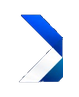
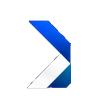
"

Changed region(s): [[0.2278, 0.1237, 0.8101, 0.866]]

diff --git a/frontend/src/components/Sidebar.jsx b/frontend/src/components/Sidebar.jsx
@@ -96,19 +96,8 @@ export default function Sidebar() {
         <i className={isCollapsed ? "ri-arrow-right-s-line" : "ri-arrow-left-s-line"} aria-hidden="true" />
       </button>
 
-      <div className="sidebar-brand-panel">
-        {isCollapsed ? (
-          <div className="sidebar-brand-icon-wrap">
-            <img
-              src={integraxxXMark}
-              alt="Integraxx"
-              className="sidebar-brand-logo sidebar-brand-logo--icon"
-              width={79}
-              height={97}
-              decoding="async"
-            />
-          </div>
-        ) : (
+      {!isCollapsed ? (
+        <div className="sidebar-brand-panel">
           <img
             src={integraxxSidebarLogo}
             alt="Integraxx"
@@ -117,10 +106,27 @@ export default function Sidebar() {
             height={171}
             decoding="async"
           />
-        )}
-      </div>
+        </div>
+      ) : null}
 
       <nav className="sidebar-nav" aria-label="Menu principal">
+        {isCollapsed ? (
+          <NavLink
+            to={links[0]?.to || "/dashboard"}
+            className="sidebar-collapsed-logo-link"
+            title="Integraxx"
+            aria-label="Integraxx - inicio"
+          >
+            <img
+              src={integraxxXMark}
+              alt=""
+              className="sidebar-collapsed-logo-img"
+              width={95}
+              height={109}
+              decoding="async"
+            />
+          </NavLink>
+        ) : null}
         <ul className="nav-list">
           {links.map((link) => (
             <li key={link.to}>
@@ -140,45 +146,27 @@ export default function Sidebar() {
       </nav>
 
       <div className="sidebar-profile-card">
-        {isCollapsed ? (
-          <>
-            <div className="sidebar-profile-main">
-              <div className="sidebar-profile-avatar" aria-hidden="true">
-                {getInitials(user?.name || user?.email || "Integraxx")}
-              </div>
-            </div>
-            <button
-              type="button"
-              className="sidebar-logout-button"
-              onClick={logout}
-              aria-label="Sair"
-              title="Sair"
-            >
-              <i className="ri-logout-box-r-line" aria-hidden="true" />
-            </button>
-          </>
-        ) : (
-          <div className="sidebar-profile-row">
-            <button
-              type="button"
-              className="sidebar-logout-button sidebar-logout-button--leading"
-              onClick={logout}
-              aria-label="Sair"
-              title="Sair"
-            >
-              <i className="ri-logout-box-r-line" aria-hidden="true" />
-            </button>
-            <div className="sidebar-profile-main">
-              <div className="sidebar-profile-avatar" aria-hidden="true">
-                {getInitials(user?.name || user?.email || "Integraxx")}
-              </div>
-              <div className="sidebar-profile-copy">
-                <strong>{user?.name || user?.email || "Administrador"}</strong>
-                <small>{getRoleLabel(user?.role)}</small>
-              </div>
-            </div>
+        <div className="sidebar-profile-main">
+          <div className="sidebar-profile-avatar" aria-hidden="true">
+            {getInitials(user?.name || user?.email || "Integraxx")}
           </div>
-        )}
+          {!isCollapsed ? (
+            <div className="sidebar-profile-copy">
+              <strong>{user?.name || user?.email || "Administrador"}</strong>
+              <small>{getRoleLabel(user?.role)}</small>
+            </div>
+          ) : null}
+        </div>
+        <button
+          type="button"
+          className="sidebar-logout-button"
+          onClick={logout}
+          aria-label="Sair"
+          title="Sair"
+        >
+          <i className="ri-logout-box-r-line" aria-hidden="true" />
+          {!isCollapsed ? <span>Sair</span> : null}
+        </button>
       </div>
     </aside>
   );

diff --git a/frontend/src/index.css b/frontend/src/index.css
@@ -4308,52 +4308,12 @@ body.login-theme {
   border-top: 1px solid rgba(46, 88, 130, 0.22);
 }
 
-.sidebar-profile-row {
-  display: flex;
-  align-items: center;
-  gap: 12px;
-  width: 100%;
-  min-width: 0;
-}
-
 .sidebar-profile-main {
   display: grid;
   grid-template-columns: auto 1fr;
   align-items: center;
   gap: 12px;
   min-width: 0;
-  flex: 1;
-}
-
-.sidebar-logout-button--leading {
-  flex-shrink: 0;
-  display: inline-flex;
-  align-items: center;
-  justify-content: center;
-  width: 40px;
-  height: 40px;
-  min-width: 40px;
-  padding: 0;
-  border: 1px solid rgba(46, 88, 130, 0.35);
-  border-radius: 12px;
-  background: rgba(8, 24, 46, 0.55);
-  color: #8eb8d8;
-  cursor: pointer;
-  transition:
-    color 0.2s ease,
-    border-color 0.2s ease,
-    background 0.2s ease;
-}
-
-.sidebar-logout-button--leading:hover {
-  color: #d8ecff;
-  border-color: rgba(13, 216, 255, 0.45);
-  background: rgba(13, 216, 255, 0.12);
-}
-
-.sidebar-logout-button--leading i {
-  font-size: 20px;
-  line-height: 1;
 }
 
 .sidebar-profile-avatar {
@@ -4489,37 +4449,46 @@ body.login-theme {
   font-weight: 700;
 }
 
-.sidebar--integraxx.is-collapsed {
-  width: 92px;
-  min-width: 92px;
-  overflow-x: visible;
-}
-
-.sidebar--integraxx.is-collapsed .sidebar-brand-panel {
+.sidebar-collapsed-logo-link {
   display: flex;
   align-items: center;
   justify-content: center;
-  min-height: 92px;
-  padding: 20px 8px 16px;
-  border-bottom: 1px solid rgba(46, 88, 130, 0.2);
+  width: 64px;
+  height: 64px;
+  min-height: 64px;
+  margin: 2px auto 12px;
+  padding: 8px;
+  border: 0;
+  border-radius: 14px;
   background: transparent;
+  text-decoration: none;
+  box-sizing: border-box;
+  flex-shrink: 0;
   overflow: visible;
+  transition: background 0.2s ease;
 }
 
-.sidebar--integraxx.is-collapsed .sidebar-brand-icon-wrap {
-  display: flex;
-  align-items: center;
-  justify-content: center;
-  width: 100%;
-  max-width: 72px;
-  overflow: visible;
+.sidebar-collapsed-logo-link:hover {
+  background: rgba(18, 48, 78, 0.35);
 }
 
-.sidebar--integraxx.is-collapsed .sidebar-brand-logo--icon {
-  width: 100%;
-  height: auto;
-  max-width: 100%;
-  max-height: 58px;
+.sidebar-collapsed-logo-img {
+  display: block;
+  flex-shrink: 0;
+  width: auto;
+  height: 48px;
+  max-width: 48px;
+  margin: 0;
+  object-fit: contain;
+  object-position: center center;
+  background: transparent;
+  pointer-events: none;
+}
+
+.sidebar--integraxx.is-collapsed {
+  width: 88px;
+  min-width: 88px;
+  overflow-x: visible;
 }
 
 .sidebar--integraxx.is-collapsed .sidebar-brand-copy,
@@ -4533,7 +4502,8 @@ body.login-theme {
   display: flex;
   flex-direction: column;
   align-items: center;
-  padding: 12px 0 8px;
+  padding: 16px 0 8px;
+  overflow-x: visible;
 }
 
 .sidebar--integraxx.is-collapsed .sidebar-nav .nav-list {
@@ -4647,7 +4617,7 @@ body.login-theme {
 }
 
 .sidebar--integraxx.is-collapsed .sidebar-collapse-toggle {
-  top: 72px;
+  top: 88px;
 }
 
 @media (max-width: 900px) {

diff --git a/frontend/src/styles/logged-in-theme.css b/frontend/src/styles/logged-in-theme.css
@@ -884,16 +884,19 @@ body:not(.login-theme) .sidebar--integraxx.is-collapsed .sidebar-nav .nav-list {
   gap: 8px !important;
 }
 
-body:not(.login-theme) .sidebar--integraxx.is-collapsed .sidebar-brand-panel {
-  overflow: visible !important;
+body:not(.login-theme) .sidebar-collapsed-logo-link {
+  margin: 6px auto 14px !important;
 }
 
-body:not(.login-theme) .sidebar--integraxx.is-collapsed .sidebar-brand-logo--icon {
-  width: 100% !important;
-  height: auto !important;
-  max-width: 100% !important;
-  max-height: 58px !important;
-  filter: drop-shadow(0 4px 14px rgba(13, 216, 255, 0.22)) !important;
+body:not(.login-theme) .sidebar-collapsed-logo-img {
+  height: 48px !important;
+  max-width: 48px !important;
+  width: auto !important;
+  filter: drop-shadow(0 2px 10px rgba(13, 216, 255, 0.18)) !important;
+}
+
+body:not(.login-theme) .sidebar--integraxx.is-collapsed .sidebar-nav {
+  overflow-x: visible !important;
 }
 
 body:not(.login-theme) .sidebar--integraxx.is-collapsed .sidebar-menu-link,
@@ -948,18 +951,6 @@ body:not(.login-theme) .sidebar--integraxx.is-collapsed .sidebar-menu-link.activ
   color: #ffffff !important;
   transform: none !important;
   filter: none !important;
-}
-
-body:not(.login-theme) .sidebar-logout-button--leading {
-  border: 1px solid rgba(13, 216, 255, 0.22) !important;
-  background: rgba(6, 20, 40, 0.65) !important;
-}
-
-body:not(.login-theme) .sidebar-logout-button--leading:hover {
-  border-color: rgba(13, 216, 255, 0.45) !important;
-  background: rgba(13, 216, 255, 0.12) !important;
-  color: var(--ix-cyan-hi) !important;
-  text-shadow: none !important;
 }
 
 /* Presets — intensificar cyber */
